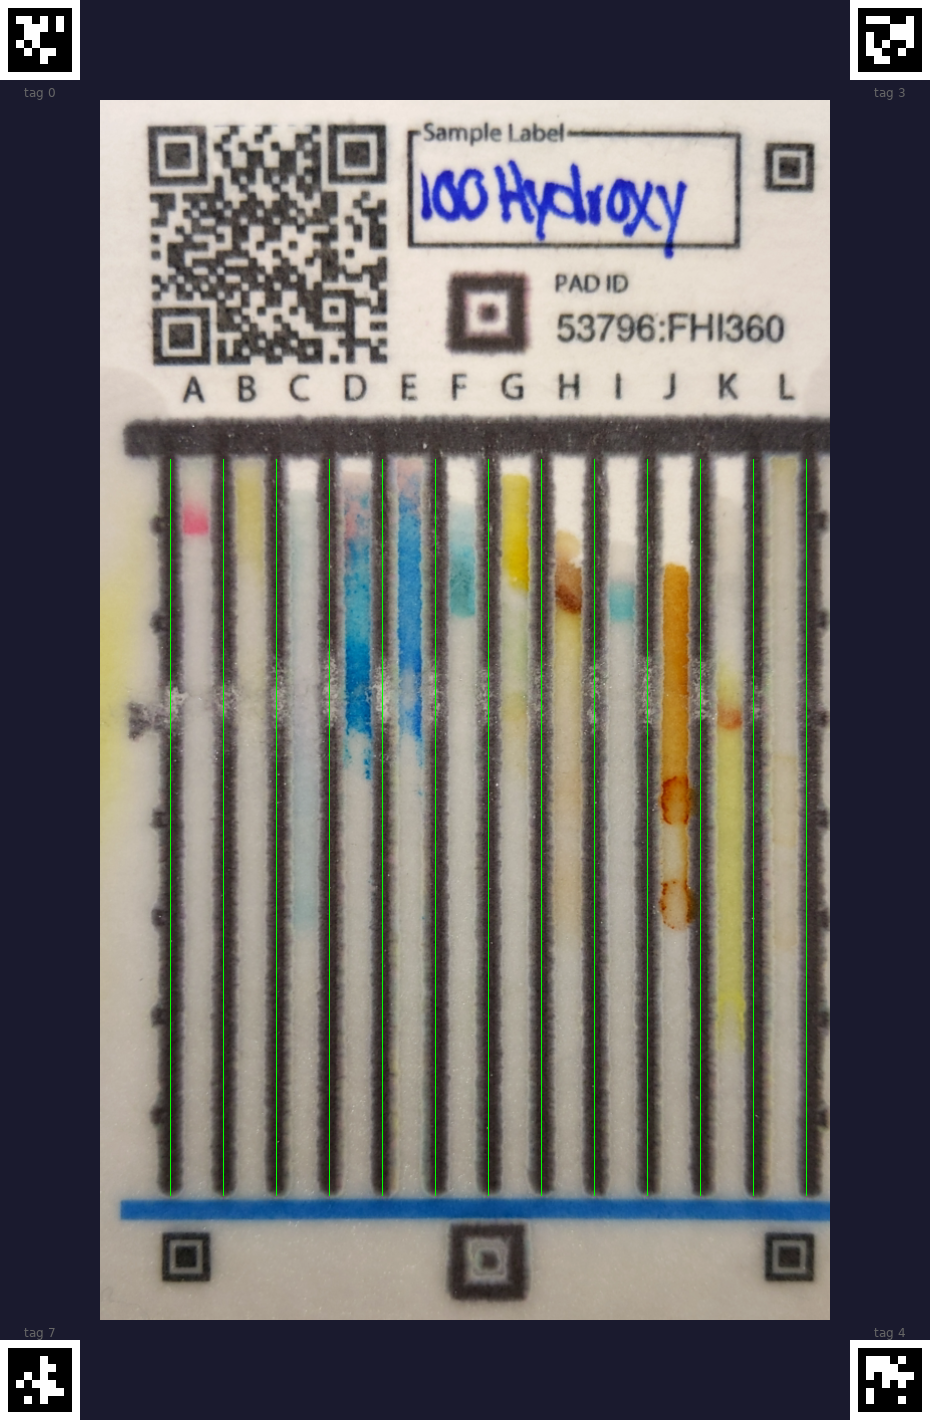
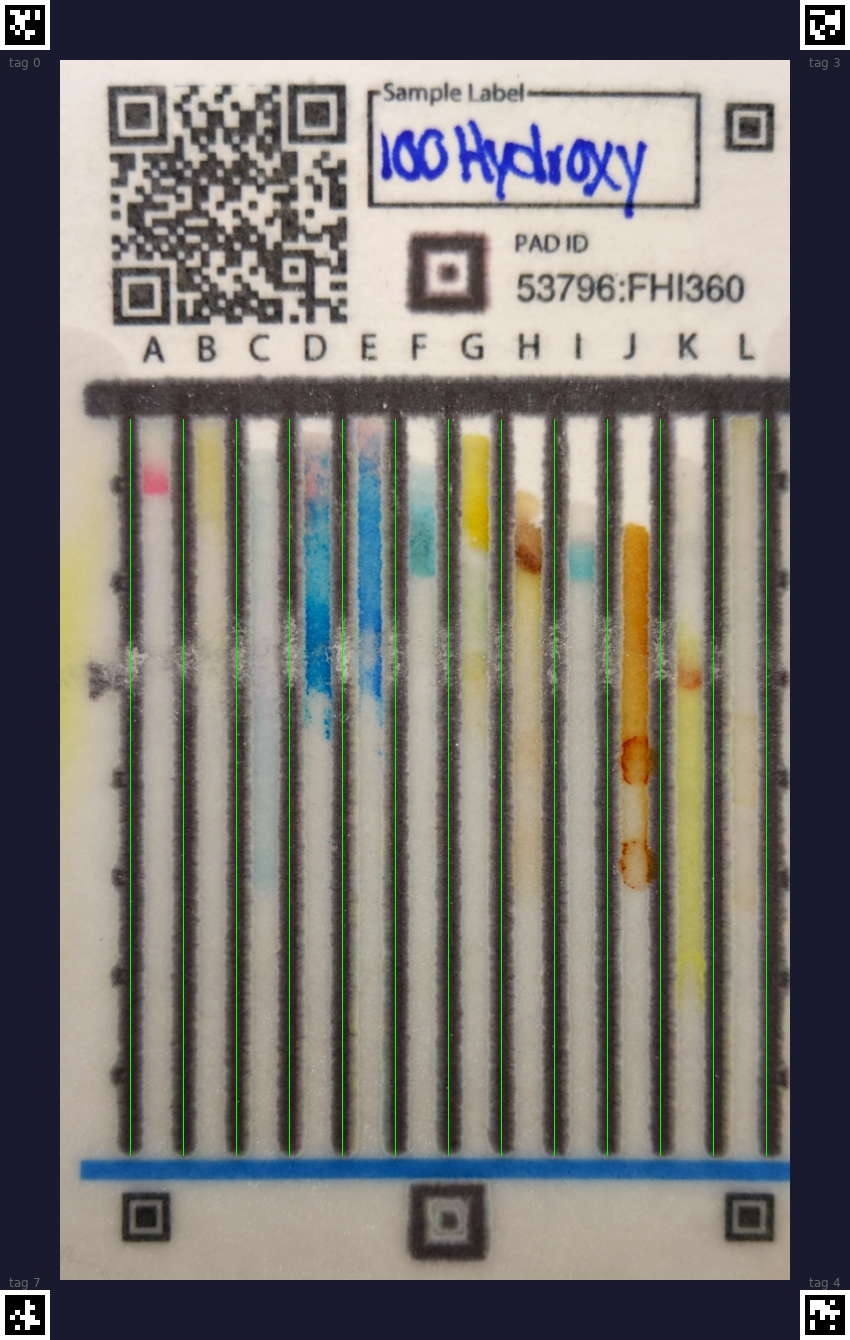
style: reduce AprilTag size and maximize PAD image area

diff --git a/prototype/index.html b/prototype/index.html
@@ -155,7 +155,7 @@
             display: flex;
             align-items: center;
             justify-content: center;
-            padding: 20px;
+            padding: 10px;
             background: #1a1a2e;
             overflow: hidden;
         }
@@ -169,10 +169,10 @@
 
         .apriltag {
             position: absolute;
-            width: 60px;
-            height: 60px;
+            width: 40px;
+            height: 40px;
             background: white;
-            padding: 8px;
+            padding: 4px;
             z-index: 100;
         }
 
@@ -185,31 +185,31 @@
 
         /* Position tags at corners of the tracked area */
         .apriltag.top-left {
-            top: -70px;
-            left: -70px;
+            top: -48px;
+            left: -48px;
         }
 
         .apriltag.top-right {
-            top: -70px;
-            right: -70px;
+            top: -48px;
+            right: -48px;
         }
 
         .apriltag.bottom-left {
-            bottom: -70px;
-            left: -70px;
+            bottom: -48px;
+            left: -48px;
         }
 
         .apriltag.bottom-right {
-            bottom: -70px;
-            right: -70px;
+            bottom: -48px;
+            right: -48px;
         }
 
         .apriltag .tag-id {
             position: absolute;
-            bottom: -18px;
+            bottom: -14px;
             left: 50%;
             transform: translateX(-50%);
-            font-size: 10px;
+            font-size: 9px;
             color: #666;
             white-space: nowrap;
         }
@@ -225,7 +225,7 @@
         #padImage {
             display: block;
             max-width: 100%;
-            max-height: calc(100vh - 200px);
+            max-height: calc(100vh - 120px);
             height: auto;
         }
 

diff --git a/generate_eyetracking_layout.py b/generate_eyetracking_layout.py
@@ -13,8 +13,8 @@ from PIL import Image, ImageDraw, ImageFont
 def generate_eyetracking_layout(
     pad_image_path: Optional[str] = None,
     output_path: str = "eyetracking_layout.png",
-    tag_size: int = 80,
-    tag_margin: int = 20,
+    tag_size: int = 50,
+    tag_margin: int = 10,
     background_color: str = "#1a1a2e",
 ):
     """
@@ -152,14 +152,14 @@ def main():
     parser.add_argument(
         "--tag-size",
         type=int,
-        default=80,
-        help="AprilTag size in pixels (default: 80)"
+        default=50,
+        help="AprilTag size in pixels (default: 50)"
     )
     parser.add_argument(
         "--tag-margin",
         type=int,
-        default=20,
-        help="Margin between tags and PAD image (default: 20)"
+        default=10,
+        help="Margin between tags and PAD image (default: 10)"
     )
     parser.add_argument(
         "--background",
